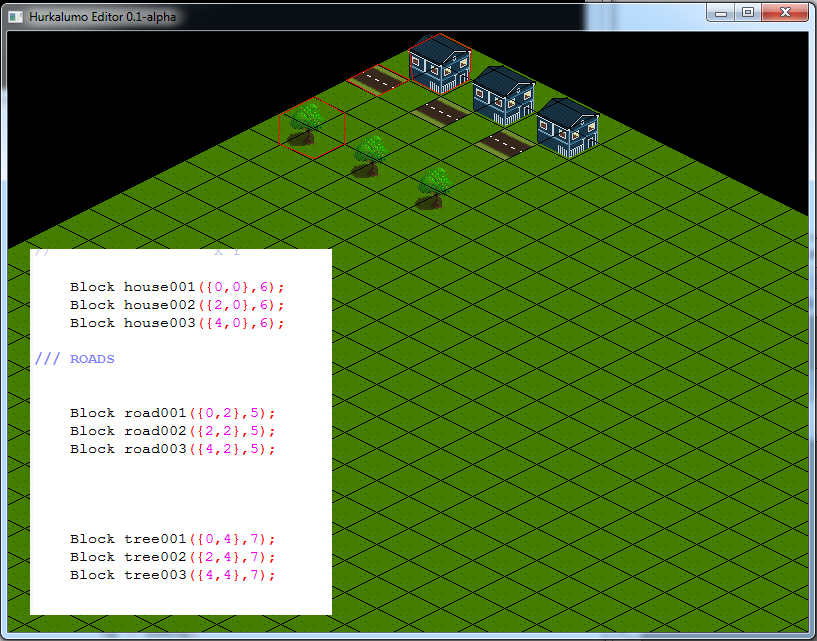
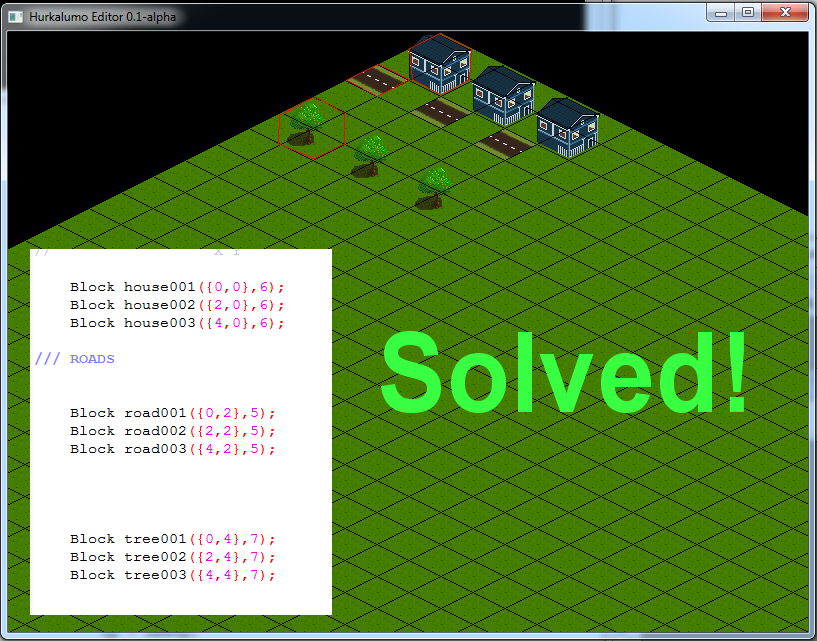
Minor gfx fixes

Changed region(s): [[0.459, 0.4992, 0.918, 0.6552]]

diff --git a/src/Hurka/src/Core.cpp b/src/Hurka/src/Core.cpp
@@ -82,17 +82,13 @@ int main()
     Block house002({2,0},"HOUSE001", &textureMgr);
     Block house003({4,0},"HOUSE001", &textureMgr);
 
-    Block road001({0,1},"ROAD001", &textureMgr);
-    Block road002({2,1},"ROAD001", &textureMgr);
-    Block road003({4,1},"ROAD001", &textureMgr);
+    Block roadA01({0,2},"ROAD001", &textureMgr);
+    Block roadA02({2,2},"ROAD001", &textureMgr);
+    Block roadA03({4,2},"ROAD001", &textureMgr);
 
-    Block road004({0,2},"ROAD002", &textureMgr);
-    Block road005({2,2},"ROAD002", &textureMgr);
-    Block road006({4,2},"ROAD002", &textureMgr);
-
-    Block tree001({0,3},"TREE001", &textureMgr);
-    Block tree002({2,3},"TREE001", &textureMgr);
-    Block tree003({4,3},"TREE001", &textureMgr);
+    Block tree001({0,4},"TREE001", &textureMgr);
+    Block tree002({2,4},"TREE001", &textureMgr);
+    Block tree003({4,4},"TREE001", &textureMgr);
 
 
     // Setup timing
@@ -105,7 +101,7 @@ int main()
     drawGm = true;
     drawLoco = true;
     drawToolbar = true;
-    drawGrid = true;
+    drawGrid = false;
     drawBlocks = true;
 
 
@@ -222,13 +218,10 @@ int main()
             house002.draw(window);
             house003.draw(window);
 
-            road001.draw(window);
-            road002.draw(window);
-            road003.draw(window);
 
-            road004.draw(window);
-            road005.draw(window);
-            road006.draw(window);
+            roadA01.draw(window);
+            roadA02.draw(window);
+            roadA03.draw(window);
 
 
             tree001.draw(window);

diff --git a/src/Hurka/src/TextureManager.cpp b/src/Hurka/src/TextureManager.cpp
@@ -17,6 +17,9 @@ TextureManager::TextureManager()
     txt.loadFromFile("C:\\github\\lumo\\src\\Hurka\\bin\\Release\\ROAD_002.png");
     pushTexture("ROAD002", txt);
 
+    txt.loadFromFile("C:\\github\\lumo\\src\\Hurka\\bin\\Release\\ROAD_003.png");
+    pushTexture("ROAD003", txt);
+
 
      txt.loadFromFile("C:\\github\\lumo\\src\\Hurka\\bin\\Release\\TREE_001.png");
     pushTexture("TREE001", txt);
